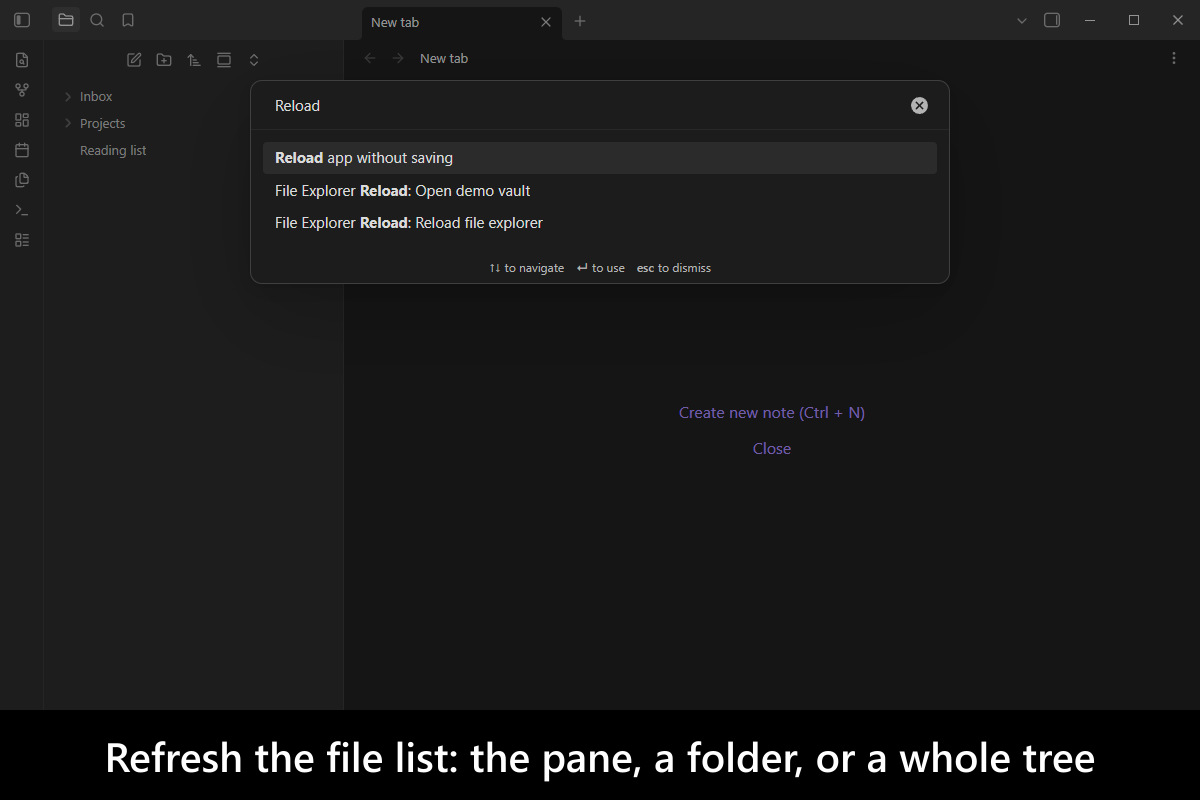
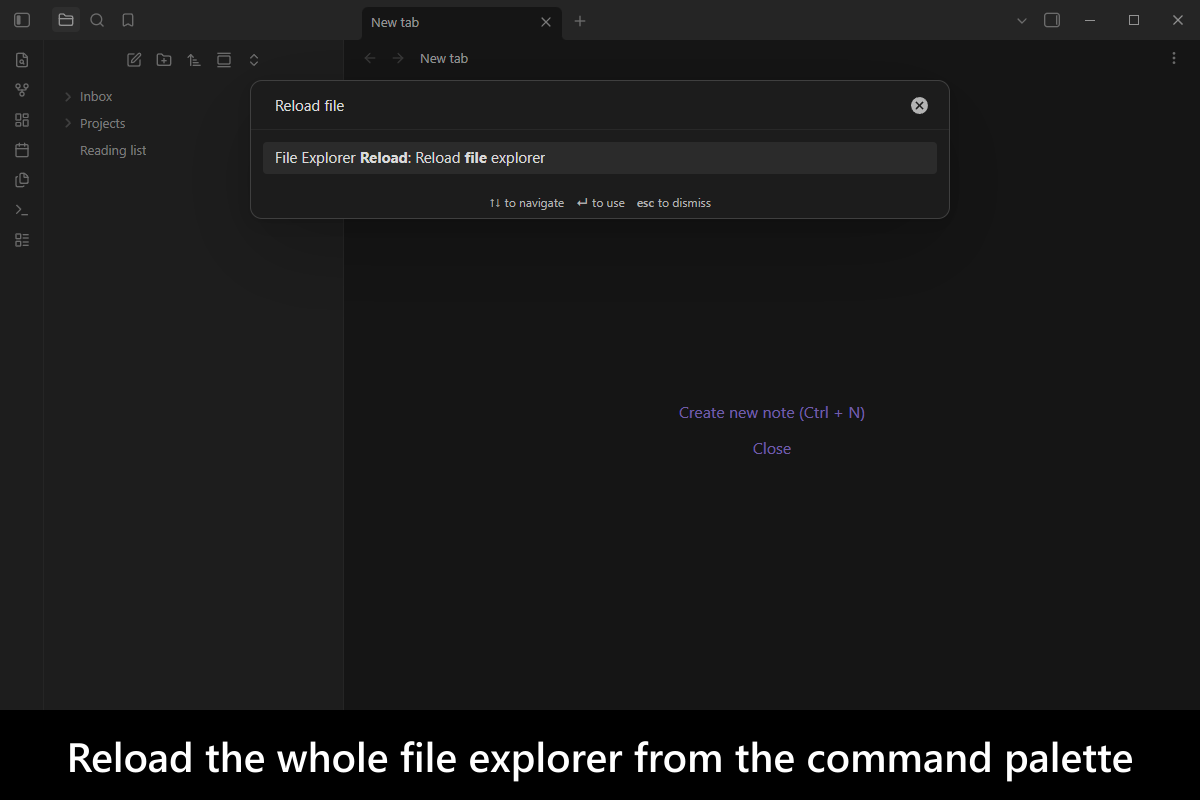
test(screenshots): show the folder commands in a second desktop frame
The palette resolves its target through the active file, which is never a
folder, so the two folder commands can never appear there. Frame 1 now shows
only the pane command, with a query that no longer matches the core
Reload app without saving, and frame 2 photographs the folder context menu
with the plugin submenu open.

diff --git a/src/screenshots.desktop-capture.integration.test.ts b/src/screenshots.desktop-capture.integration.test.ts
@@ -5,7 +5,7 @@
  * driving a staged vault in a real Obsidian and writing
  * images/screenshots/screenshot-desktop-N.png.
  *
- * ONE shot, and the reason is worth recording. The obvious storyboard is a
+ * The commands are the subject, not a before/after, and the reason is worth recording. The obvious storyboard is a
  * stale file explorer next to a refreshed one, and it cannot be built: files
  * written into the vault with Node fs, from this suite, while Obsidian runs,
  * are picked up by Obsidian on its own within a second. The suite asserted the
@@ -15,8 +15,14 @@
  *
  * The pane does fall behind in the situations the README describes (a large
  * vault, a sync client, a watcher that misses an event), but none of those can
- * be staged from a capture run. So the shot shows the plugin SURFACE: the three
+ * be staged from a capture run. So the shots show the plugin SURFACE: the three
  * commands, which is what a reader is buying.
+ *
+ * TWO shots, because no single surface shows all three. The two folder commands
+ * are folder-scoped, and the palette resolves its target through
+ * `workspace.getActiveFile()`, which is never a folder, so they never appear
+ * there. Frame 1 is the palette with the pane command. Frame 2 is a folder's
+ * right-click menu with the two folder commands.
  *
  * Desktop only, per the manifest.
  */
@@ -41,7 +47,6 @@ import {
   it
 } from 'vitest';
 
-const PLUGIN_ID = 'file-explorer-reload';
 const WIDTH_IN_PIXELS = 1200;
 const HEIGHT_IN_PIXELS = 800;
 
@@ -91,22 +96,52 @@ beforeAll(async () => {
 });
 
 describe('desktop store screenshots', () => {
-  it('1 - the commands it adds', async () => {
-    const commandNames = await openCommandPalette('Reload');
-    expect(commandNames.length).toBeGreaterThan(1);
-    await shoot(1, 'Refresh the file list: the pane, a folder, or a whole tree');
+  it('1 - the pane command', async () => {
+    // `Reload file` rather than `Reload`: the bare word also matched the core
+    // `Reload app without saving`, which took the top row.
+    const rowTitles = await openCommandPalette('Reload file');
+    // The row's `: ` between the plugin name and the command is drawn by CSS, so
+    // it is not in the text.
+    expect(rowTitles).toStrictEqual(['File Explorer ReloadReload file explorer']);
+    await shoot(1, 'Reload the whole file explorer from the command palette');
+    await closeCommandPalette();
+  });
+
+  it('2 - the folder commands', async () => {
+    const itemTitles = await openFolderMenu('Projects');
+    expect(itemTitles).toContain('Reload folder');
+    expect(itemTitles).toContain('Reload folder with subfolders');
+    await shoot(2, 'Reload one folder, or a folder and all its subfolders');
   });
 });
 
 /**
- * Opens the command palette and filters it to this plugin commands.
+ * Closes the command palette the previous shot left open.
+ */
+async function closeCommandPalette(): Promise<void> {
+  await evalInObsidian({
+    async callback({ lib: { pressKey, waitUntil } }) {
+      const PALETTE_TIMEOUT_IN_MILLISECONDS = 15_000;
+      await pressKey({ key: 'Escape' });
+      await waitUntil({
+        message: 'the command palette to close',
+        predicate: () => !document.querySelector('.prompt'),
+        timeoutInMilliseconds: PALETTE_TIMEOUT_IN_MILLISECONDS
+      });
+    },
+    vaultPath: vaultPath()
+  });
+}
+
+/**
+ * Opens the command palette and filters it.
  *
  * @param query - What to type into the palette.
- * @returns The names of the commands this plugin registers.
+ * @returns The titles of the rows the palette shows.
  */
 async function openCommandPalette(query: string): Promise<string[]> {
   return await evalInObsidian({
-    async callback({ app, lib: { waitUntil }, pluginId, query: text }) {
+    async callback({ app, lib: { waitUntil }, query: text }) {
       const PALETTE_TIMEOUT_IN_MILLISECONDS = 15_000;
       const SETTLE_DELAY_IN_MILLISECONDS = 900;
 
@@ -130,13 +165,65 @@ async function openCommandPalette(query: string): Promise<string[]> {
 
       await sleep(SETTLE_DELAY_IN_MILLISECONDS);
 
-      // Reported so the shot can assert the plugin own commands are the ones on
-      // screen, rather than whatever else matched the word.
-      return Object.values(app.commands.commands)
-        .filter((command) => command.id.startsWith(`${pluginId}:`))
-        .map((command) => command.name);
+      // Reported so the shot can assert which rows are on screen, rather than
+      // whatever else matched the query.
+      return [...document.querySelectorAll('.prompt .suggestion-item')].map((item) => item.textContent);
     },
-    input: { pluginId: PLUGIN_ID, query },
+    input: { query },
+    vaultPath: vaultPath()
+  });
+}
+
+/**
+ * Right-clicks a folder in the file explorer and opens the plugin's items.
+ *
+ * @param folderPath - The vault-relative path of the folder.
+ * @returns The titles of every menu item on screen, submenus included.
+ */
+async function openFolderMenu(folderPath: string): Promise<string[]> {
+  return await evalInObsidian({
+    async callback({ folderPath: path, lib: { clickElement, waitUntil } }) {
+      const MENU_TIMEOUT_IN_MILLISECONDS = 10_000;
+      const SETTLE_DELAY_IN_MILLISECONDS = 900;
+      const SUBMENU_TITLE = 'File Explorer Reload';
+
+      const titleEl = document.querySelector(`.nav-folder-title[data-path="${CSS.escape(path)}"]`);
+      if (!(titleEl instanceof HTMLElement)) {
+        throw new TypeError(`The file explorer shows no folder ${path}.`);
+      }
+
+      // A TRUSTED right click, so the menu anchors at the folder, where a user
+      // would see it, rather than in the top-left corner.
+      await clickElement({ button: 'right', element: titleEl });
+
+      await waitUntil({
+        message: 'the folder context menu to open',
+        predicate: () => Boolean(document.body.querySelector('.menu')),
+        timeoutInMilliseconds: MENU_TIMEOUT_IN_MILLISECONDS
+      });
+
+      function readTitles(): string[] {
+        return [...document.querySelectorAll('.menu .menu-item-title')].map((item) => item.textContent);
+      }
+
+      // The folder items sit in a plugin-titled submenu. A trusted hover on its
+      // parent did not open it; a click does, as it does for a user.
+      const submenuParent = [...document.querySelectorAll('.menu .menu-item')].find((item) => item.querySelector('.menu-item-title')?.textContent === SUBMENU_TITLE);
+      if (!(submenuParent instanceof HTMLElement)) {
+        throw new TypeError(`The folder menu has no ${SUBMENU_TITLE} submenu: ${readTitles().join(' | ')}`);
+      }
+      await clickElement({ element: submenuParent });
+      await waitUntil({
+        message: 'the File Explorer Reload submenu to open',
+        predicate: () => readTitles().includes('Reload folder'),
+        timeoutInMilliseconds: MENU_TIMEOUT_IN_MILLISECONDS
+      });
+
+      await sleep(SETTLE_DELAY_IN_MILLISECONDS);
+
+      return readTitles();
+    },
+    input: { folderPath },
     vaultPath: vaultPath()
   });
 }
